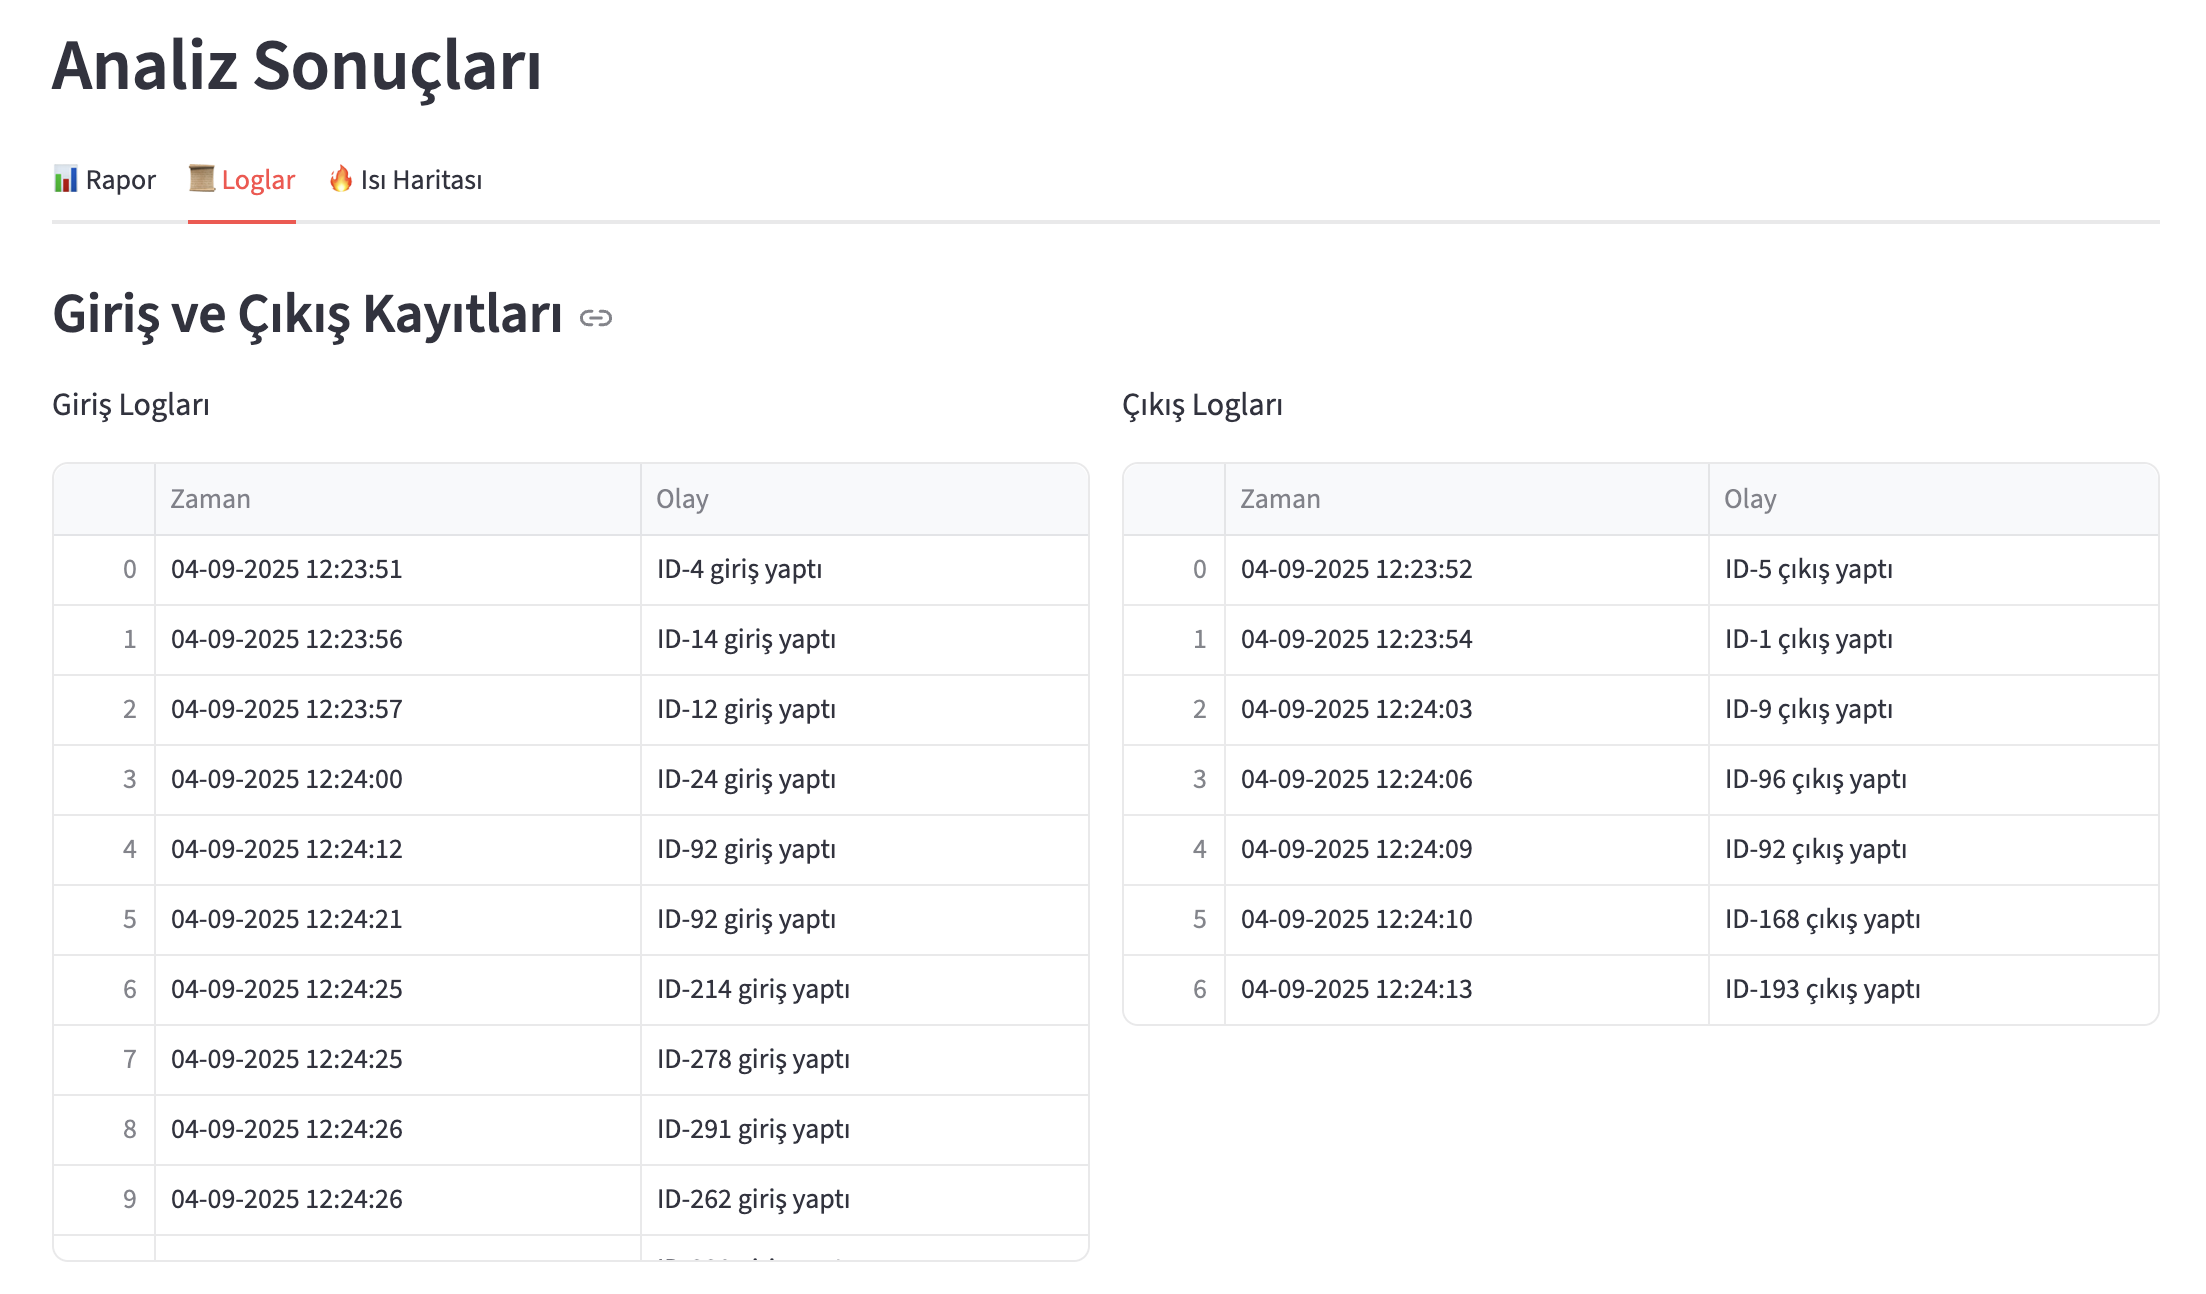
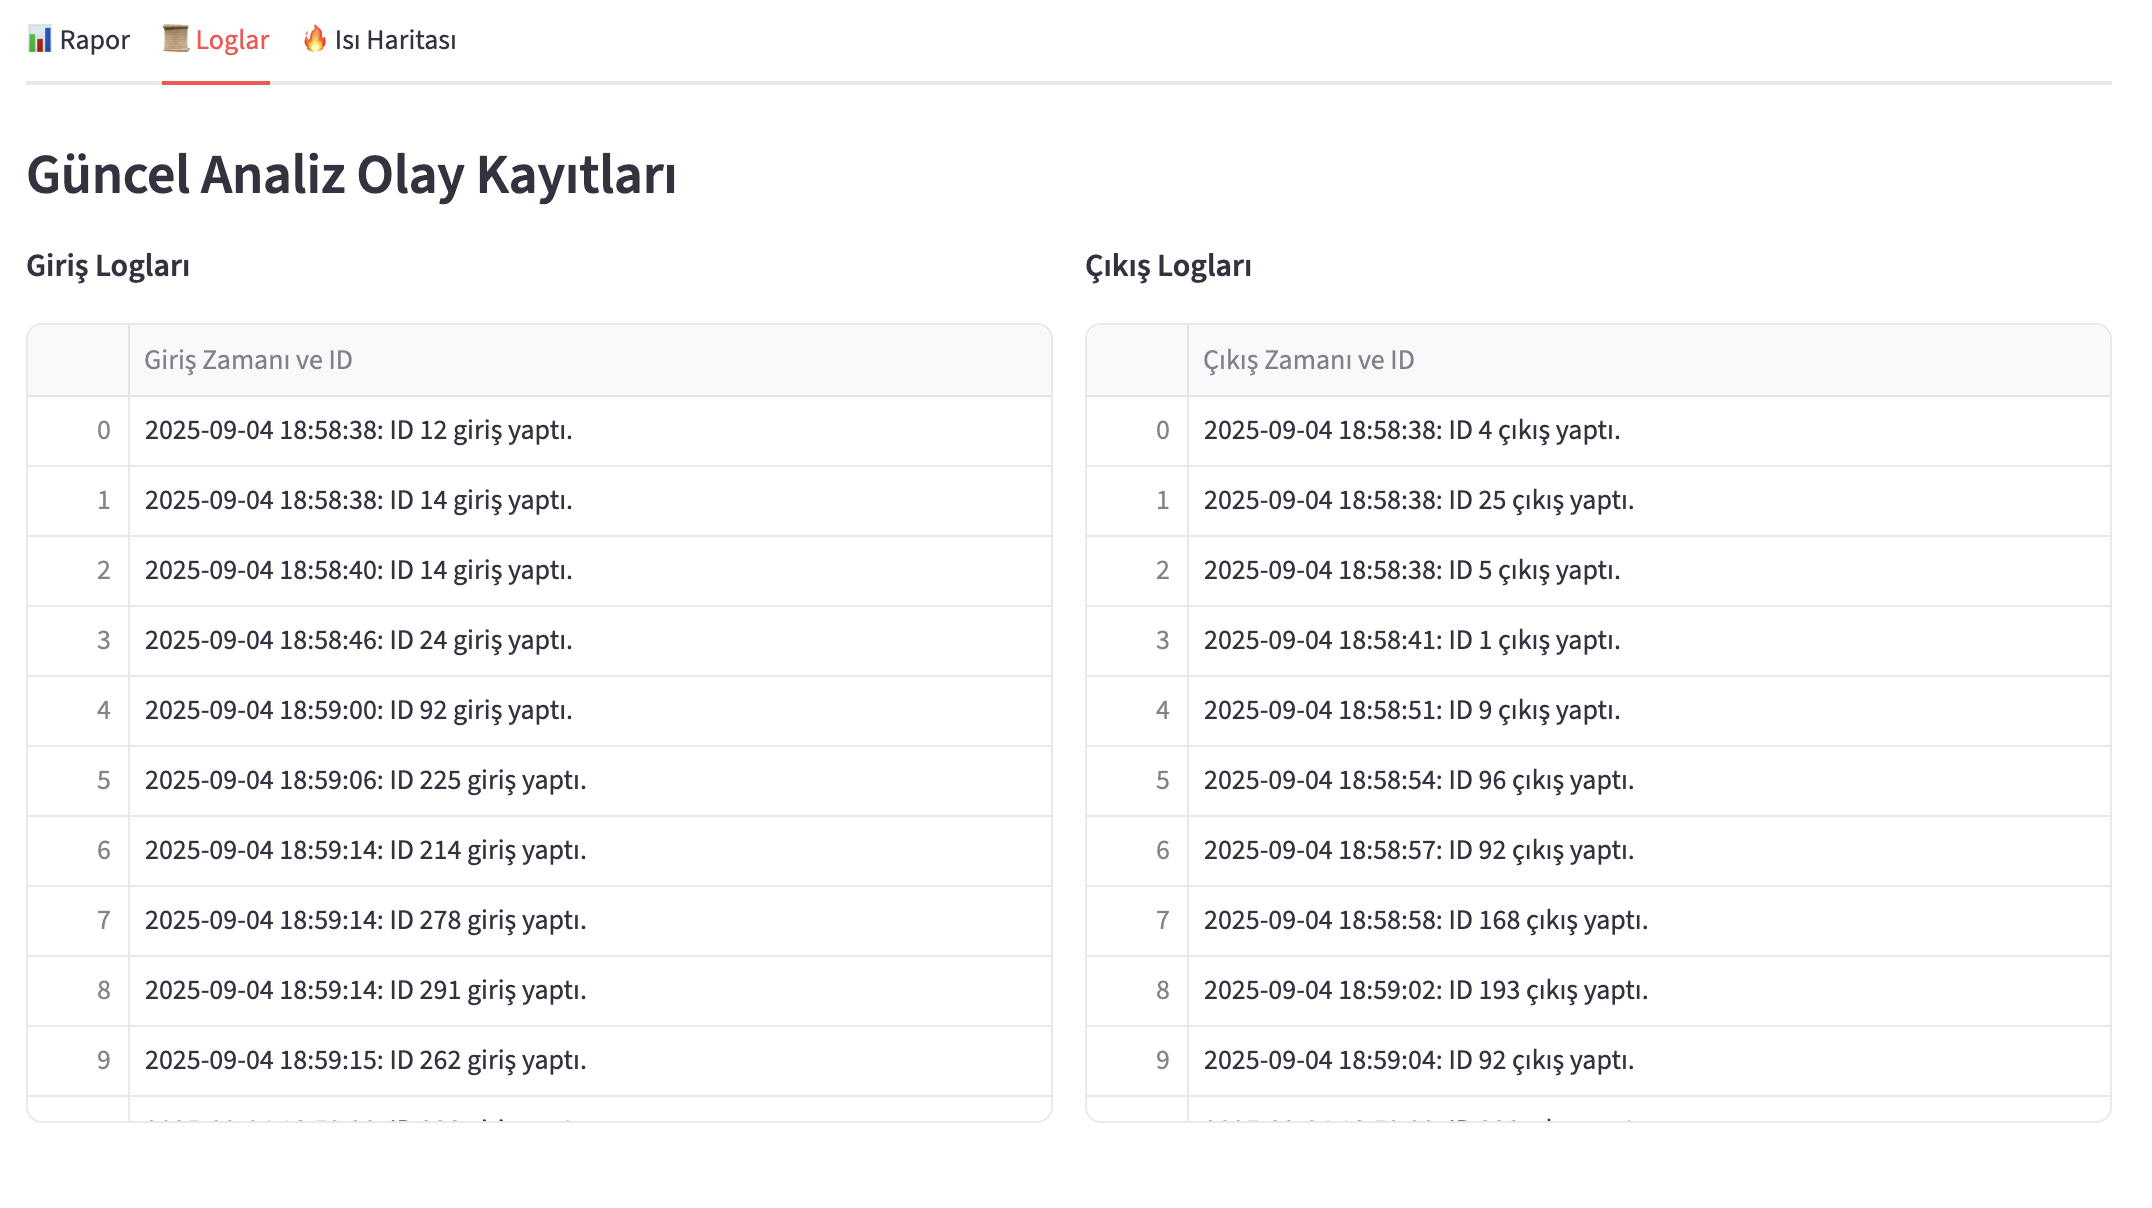
logger_config added data_manager updated

diff --git a/app.py b/app.py
@@ -19,12 +19,17 @@ Analiz sonuçlarını canlı olarak takip edebilir, geçmiş verileri görüntü
 """)
 
 # --- Veritabanı Yöneticisini Başlatma ---
-db_manager = DataManager()
+# @st.cache_resource, Streamlit'in objeyi önbelleğe almasını ve tekrar tekrar oluşturmamasını sağlar.
+@st.cache_resource
+def get_db_manager():
+    return DataManager()
+
+db_manager = get_db_manager()
+
 
 # --- AYARLAR BÖLÜMÜ (KENAR ÇUBUĞU) ---
 st.sidebar.header("Uygulama Durumu ve Ayarlar")
 
-# YENİ: Veritabanı bağlantı durumunu arayüzde göster
 if db_manager.conn:
     st.sidebar.success("Veritabanı bağlantısı aktif.")
 else:
@@ -51,6 +56,7 @@ clipping_percentile = st.sidebar.slider(
     help="Haritanın kontrastını ayarlar. Düşük değerler daha fazla alanı 'sıcak' (kırmızı) gösterir."
 )
 
+
 # --- Geçmiş Analizler Bölümü ---
 st.header("Geçmiş Analiz Oturumları")
 try:
@@ -59,10 +65,34 @@ try:
         df_sessions = pd.DataFrame(all_sessions, columns=['Oturum ID', 'Başlangıç Zamanı', 'Video Adı', 'Toplam Giriş',
                                                           'Toplam Çıkış'])
         st.dataframe(df_sessions, use_container_width=True)
+
+        # YENİ: Geçmiş bir oturumun detaylarını görmek için seçim kutusu
+        st.subheader("Geçmiş Oturum Detaylarını Görüntüle")
+        session_ids = ["Lütfen bir oturum seçin..."] + [str(s[0]) for s in all_sessions]
+        selected_session_id = st.selectbox("İncelemek istediğiniz Oturum ID'sini seçin:", options=session_ids)
+
+        # YENİ: Seçilen oturumun olay dökümünü veritabanından getir ve göster
+        if selected_session_id and selected_session_id != "Lütfen bir oturum seçin...":
+            try:
+                session_id_int = int(selected_session_id)
+                events = db_manager.get_events_by_session(session_id_int)
+                if events:
+                    df_events = pd.DataFrame(events, columns=['Zaman Damgası', 'Olay Tipi'])
+                    st.write(f"**Oturum ID {session_id_int} için Olay Dökümü:**")
+                    st.dataframe(df_events, use_container_width=True)
+                else:
+                    st.info(f"Oturum ID {session_id_int} için kaydedilmiş bir olay bulunmuyor.")
+            except ValueError:
+                st.error("Geçersiz Oturum ID'si.")
+            except Exception as e:
+                st.error(f"Olaylar getirilirken bir hata oluştu: {e}")
+
     else:
         st.info("Henüz kaydedilmiş bir analiz oturumu bulunmuyor.")
 except Exception as e:
     st.error(f"Geçmiş analizler yüklenirken bir hata oluştu: {e}")
+
+st.divider()
 
 # --- Analiz Butonu ve İşlemleri ---
 if uploaded_file is not None:
@@ -122,7 +152,6 @@ if uploaded_file is not None:
             cv2.putText(annotated_frame, f"Cikis: {counter.exits}", (50, 140), cv2.FONT_HERSHEY_SIMPLEX, 1.5,
                         (0, 0, 255), 3)
 
-            # DÜZELTME: Deprecation uyarısını gidermek için 'use_container_width' kullanıldı.
             stframe.image(annotated_frame, channels="BGR", use_container_width=True)
 
             if total_frames > 0:
@@ -155,13 +184,9 @@ if uploaded_file is not None:
             col1, col2 = st.columns(2)
             col1.metric("Toplam Giriş Yapan Kişi Sayısı", counter.entries)
             col2.metric("Toplam Çıkış Yapan Kişi Sayısı", counter.exits)
-
             st.divider()
 
-            # YENİ: Raporları arayüzden indirme bölümü
             st.subheader("Raporları İndir")
-
-            # JSON verisini hazırla ve indirme butonu oluştur
             json_data = {
                 "session_id": session_id,
                 "summary": {"total_entries": counter.entries, "total_exits": counter.exits},
@@ -174,8 +199,6 @@ if uploaded_file is not None:
                 file_name=f"report_{session_id}.json",
                 mime="application/json"
             )
-
-            # CSV verisini hazırla ve indirme butonu oluştur
             all_logs_df = pd.concat([
                 pd.DataFrame(counter.entry_logs, columns=["Log"]).assign(Tip="Giriş"),
                 pd.DataFrame(counter.exit_logs, columns=["Log"]).assign(Tip="Çıkış")
@@ -187,8 +210,6 @@ if uploaded_file is not None:
                 file_name=f"report_logs_{session_id}.csv",
                 mime="text/csv"
             )
-
-            # Isı haritası görüntüsünü hazırla ve indirme butonu oluştur
             _, buffer = cv2.imencode('.png', final_result_image)
             image_bytes = buffer.tobytes()
             st.download_button(
@@ -197,9 +218,8 @@ if uploaded_file is not None:
                 file_name=f"heatmap_{session_id}.png",
                 mime="image/png"
             )
-
         with tab2:
-            st.subheader("Olay Kayıtları")
+            st.subheader("Güncel Analiz Olay Kayıtları")
             col1, col2 = st.columns(2)
             with col1:
                 st.write("**Giriş Logları**")
@@ -207,9 +227,7 @@ if uploaded_file is not None:
             with col2:
                 st.write("**Çıkış Logları**")
                 st.dataframe(pd.DataFrame(counter.exit_logs, columns=["Çıkış Zamanı ve ID"]), use_container_width=True)
-
         with tab3:
             st.subheader("Genel Yoğunluk Haritası")
             st.image(final_result_image, channels="BGR",
                      caption="Video boyunca en yoğun bölgeleri gösteren ısı haritası.")
-

diff --git a/video_stream_manager.py b/video_stream_manager.py
@@ -1,4 +1,5 @@
 import cv2
+from logger_config import logger  # YENİ: Merkezi logger'ı import ediyoruz
 
 
 class VideoStreamManager:
@@ -7,15 +8,8 @@ class VideoStreamManager:
     """
 
     def __init__(self, source):
-        """
-        Sınıfın kurucu metodu.
-
-        Args:
-            source (str or int): Video dosyasının yolu (örn: "video/magaza.mp4")
-                                 veya kamera indeksi (örn: 0).
-        """
         self.source = source
-        self.cap = None  # VideoCapture nesnesini başlangıçta None olarak ayarlıyoruz.
+        self.cap = None
         self.is_running = False
 
     def start_stream(self):
@@ -24,25 +18,19 @@ class VideoStreamManager:
         """
         self.cap = cv2.VideoCapture(self.source)
         if not self.cap.isOpened():
-            # Eğer video kaynağı açılamazsa hata ver.
-            print(f"Hata: Video kaynağı açılamadı -> {self.source}")
+            logger.error(f"Hata: Video kaynağı açılamadı -> {self.source}")  # DEĞİŞTİ
             self.is_running = False
             return False
 
         self.is_running = True
-        print("Video akışı başarıyla başlatıldı.")
+        logger.info(f"Video akışı başarıyla başlatıldı: {self.source}")  # DEĞİŞTİ
         return True
 
     def get_frame(self):
         """
         Akıştan bir sonraki kareyi (frame) okur.
-
-        Returns:
-            tuple: (ret, frame)
-                   ret (bool): Kare başarıyla okunduysa True.
-                   frame (numpy.ndarray): Okunan görüntü karesi.
         """
-        if not self.is_running:
+        if not self.is_running or self.cap is None:
             return False, None
 
         ret, frame = self.cap.read()
@@ -55,4 +43,4 @@ class VideoStreamManager:
         if self.cap is not None:
             self.cap.release()
         self.is_running = False
-        print("Video akışı durduruldu.")
+        logger.info("Video akışı durduruldu.")  # DEĞİŞTİ

diff --git a/logger_config.py b/logger_config.py
@@ -1,0 +1,42 @@
+import logging
+import sys
+import os
+
+
+def setup_logger():
+    """
+    Uygulama genelinde kullanılacak olan logger'ı yapılandırır.
+    Logları hem konsola hem de 'app.log' adında bir dosyaya yazar.
+    """
+    # Log dosyasının yolu
+    log_file = 'app.log'
+
+    # Formatter oluştur: logların nasıl görüneceğini belirler
+    log_formatter = logging.Formatter(
+        '%(asctime)s - %(levelname)s - [%(filename)s:%(lineno)d] - %(message)s'
+    )
+
+    # Root logger'ı al
+    logger = logging.getLogger()
+    logger.setLevel(logging.INFO)  # Kaydedilecek minimum log seviyesi
+
+    # Mevcut handler'ları temizle (eğer varsa, çift loglamayı önler)
+    if logger.hasHandlers():
+        logger.handlers.clear()
+
+    # Konsol handler'ı oluştur ve formatı ayarla
+    stdout_handler = logging.StreamHandler(sys.stdout)
+    stdout_handler.setFormatter(log_formatter)
+    logger.addHandler(stdout_handler)
+
+    # Dosya handler'ı oluştur ve formatı ayarla
+    # 'a' modu: dosyanın sonuna ekler, 'w' modu: üzerine yazar
+    file_handler = logging.FileHandler(log_file, mode='a', encoding='utf-8')
+    file_handler.setFormatter(log_formatter)
+    logger.addHandler(file_handler)
+
+    return logger
+
+
+# Uygulamanın her yerinden erişilebilecek tek bir logger nesnesi oluştur
+logger = setup_logger()

diff --git a/data_manager.py b/data_manager.py
@@ -1,6 +1,7 @@
 import sqlite3
 from datetime import datetime
 import os
+from logger_config import logger
 
 
 class DataManager:
@@ -168,10 +169,27 @@ class DataManager:
             print(f"Oturumları getirme hatası: {e}")
             return []
 
+
+    def get_events_by_session(self, session_id):
+        """
+        Belirli bir oturum ID'sine ait tüm giriş/çıkış olaylarını zaman sırasıyla döndürür.
+        """
+        if not self.conn or session_id is None:
+            return []
+        try:
+            self.cursor.execute(
+                "SELECT timestamp, event_type FROM events WHERE session_id = ? ORDER BY timestamp ASC",
+                (session_id,)
+            )
+            return self.cursor.fetchall()
+        except sqlite3.Error as e:
+            logger.exception(f"Oturum ID {session_id} için olaylar getirilirken hata oluştu.")
+            return []
+
     def close_connection(self):
         """
         Veritabanı bağlantısını güvenli bir şekilde kapatır.
         """
         if self.conn:
             self.conn.close()
-            print("Veritabanı bağlantısı kapatıldı.")
+            logger.info("Veritabanı bağlantısı kapatıldı.")

diff --git a/README.md b/README.md
@@ -26,6 +26,10 @@ Bu proje, bir video kaynağından (IP kamera, video dosyası vb.) alınan görü
 ### Loglar
 <img src="Results/logs.png" alt="Log" width="500">
 
+### Önceki Oturum Analiz Sonuçları
+<img src="Results/previous_session.png" alt="previous" width="500">
+
+
 
 
 Canlı Analiz Ekranı (Kişi Sayımı ve Giriş/Çıkış)
